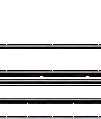
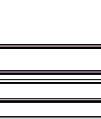
Barn: wrestlers sit on the (shallower) barn mat; clean rope lines across the doorway; back-corner perch height
Claude-Session: https://claude.ai/code/session_01Vt6RynQ8ccLExMRf8m5kQm

diff --git a/src/11_world.js b/src/11_world.js
@@ -32,6 +32,8 @@ function tryRoll(f,mx,mz){
  if(f.z<190&&f.x<=footR(f.z)+3&&mx<0){startRoll(f,ringX(f.z)[1]-4,clamp(f.z,ZMIN,ZMAX),false);return true;}
  return false;}
 const PX=(x,z)=>{if(wide())return x-G.cam;const g=geo(),t=(z-RZB)/(RZF-RZB);return lerp(g.cB,g.cF,t)+x/RX*lerp(g.hB,g.hF,t);};
-const PY=z=>{if(wide())return z;const g=geo();return g.yB+(z-RZB)/(RZF-RZB)*(g.yF-g.yB);};
+// the barn's mat is drawn shallower than the game ring: squeeze the ring's depth onto it (looks only; the sim works in x/z)
+const barnY=z=>z>=158?z:158-(158-z)*0.759;
+const PY=z=>{if(wide())return barnOn()?barnY(z):z;const g=geo();return g.yB+(z-RZB)/(RZF-RZB)*(g.yF-g.yB);};
 const zAtY=y=>{const g=geo();return RZB+(y-g.yB)/(g.yF-g.yB)*(RZF-RZB);};
 

diff --git a/tools/sprites/build_barn.py b/tools/sprites/build_barn.py
@@ -41,7 +41,17 @@ for bx0, bx1 in [(322, 366), (748, 790)]:
         y0, y1 = ry - 14, ry + 12; sub = blue[y0:y1, bx0:bx1]; d = ndimage.binary_dilation(sub, iterations=2)
         pads[y0:y1, bx0:bx1] |= sub | (d & (lum[y0:y1, bx0:bx1] < 70))
 m |= pads
-f = rgba.copy(); f[..., 3] = np.where(m, 255, 0)
+# where the front ropes cross the doorway the picture had C.Diddy behind them: use the same rope rows from the plain wall at x=540 instead
+GAP0, GAP1 = 609, 663
+fixed = {}
+for y0, y1 in [(265, 272), (302, 309), (337, 343)]:
+    for y in range(y0, y1):
+        pc = np.median(a[y, 663:676], axis=0); ref0 = np.median(a[186:216, 663:676].reshape(-1, 3), axis=0).mean()
+        if abs(pc.mean() - ref0) > 18: fixed[y] = pc.astype(np.int16)   # rope here (taken off the right door panel, like the door ropes)
+        m[y, GAP0:GAP1] = y in fixed
+f = rgba.copy()
+for y, c in fixed.items(): f[y, GAP0:GAP1, :3] = c
+f[..., 3] = np.where(m, 255, 0)
 ys, xs = np.nonzero(m); save('barn_front', f, (xs.min(), ys.min(), xs.max() + 1, ys.max() + 1))
 
 # ---- the doorway. Left panel x 560-611, gap (C.Diddy) 611-661, panel/gap rows 186-304
@@ -53,13 +63,20 @@ base = a.copy()
 for x in range(PX0, PX1): base[PY0:PY1, x] = wall[PY0:PY1, (x - PX0) % wall.shape[1]]   # where the open panel was: bare wall
 dark = np.array([20, 15, 17], np.int16)
 base[PY0:PY1, PX1:GX1] = dark                                                                 # the empty doorway
-for y in rope_rows: base[y, PX1:GX1] = wall[y, (np.arange(PX1, GX1) - PX0) % wall.shape[1]]   # back ropes run across it
+# each rope row as one clean colour (copying the wall brought along the dark seams between its planks)
+# taken from the right door panel (ropes over a grey panel, same as what the closed door shows), keeping only rows that really are rope there
+rpan = a[:, 663:676]   # right panel, left of the blue pads
+nonrope = [y for y in range(PY0, PY1) if y not in set(rope_rows)]
+ref = np.median(rpan[nonrope].reshape(-1, 3), axis=0).mean()
+rope_col = {y: np.median(rpan[y], axis=0).astype(np.int16) for y in rope_rows if abs(np.median(rpan[y], axis=0).mean() - ref) > 18}
+print('rope rows on the panel', sorted(rope_col))
+for y in rope_col: base[y, PX1:GX1] = rope_col[y]   # back ropes run across the doorway
 for y in range(PY1, PY1 + 6): base[y, PX1:GX1] = base[y, PX1 - 5][None, :]   # below the doorway: C.Diddy's boots left a reddish smear here
 Image.fromarray(base.astype(np.uint8)).save(R + '/assets/maps/barn_full.webp', lossless=False, quality=92, method=6)
 out['barn_full'] = dict(x=OX, y=OY, w=W / 2, h=H / 2)
 # panel (ropes taken out: fill each rope row from the panel row just above it)
 pan = rgba.copy()
-rr = set(rope_rows)
+rr = set(rope_col)
 for y in range(PY0, PY1):
     if y in rr:
         yy = y
@@ -73,9 +90,7 @@ dd = rgba.copy(); dd[..., 3] = 0; dd[PY0:PY1, PX1:GX1, 3] = np.where(dm, 255, 0)
 save('barn_diddy', dd, (PX1, PY0, GX1, PY1))
 # ropes across the doorway + the open panel's spot (so they stay in front of C.Diddy and the sliding panel)
 rp = rgba.copy(); rp[..., 3] = 0
-for y in rope_rows:
-    rp[y, PX0:GX1, :3] = wall[y, (np.arange(PX0, GX1) - PX0) % wall.shape[1]]
-    rp[y, PX0:GX1, 3] = np.where(wsat[y, (np.arange(PX0, GX1) - PX0) % wall.shape[1]] < 30, 255, 0)
+for y in rope_col: rp[y, PX0:GX1, :3] = rope_col[y]; rp[y, PX0:GX1, 3] = 255
 save('barn_doorrope', rp, (PX0, PY0, GX1, PY1))
 print('rope rows', rope_rows)
 print(json.dumps(out))
